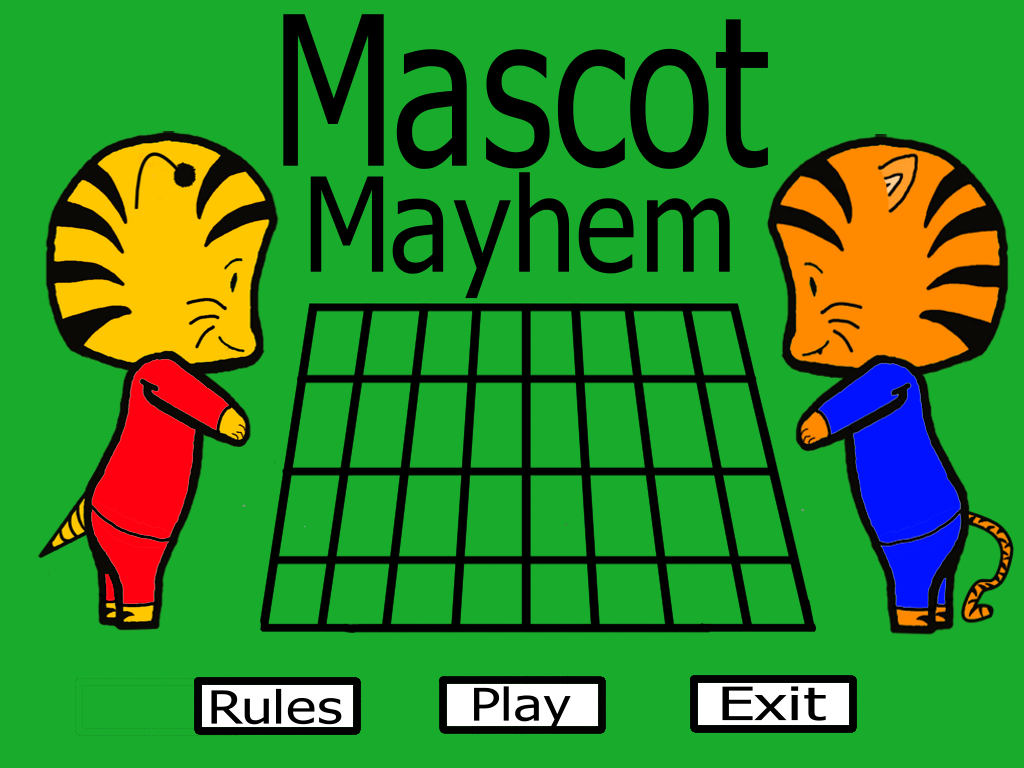
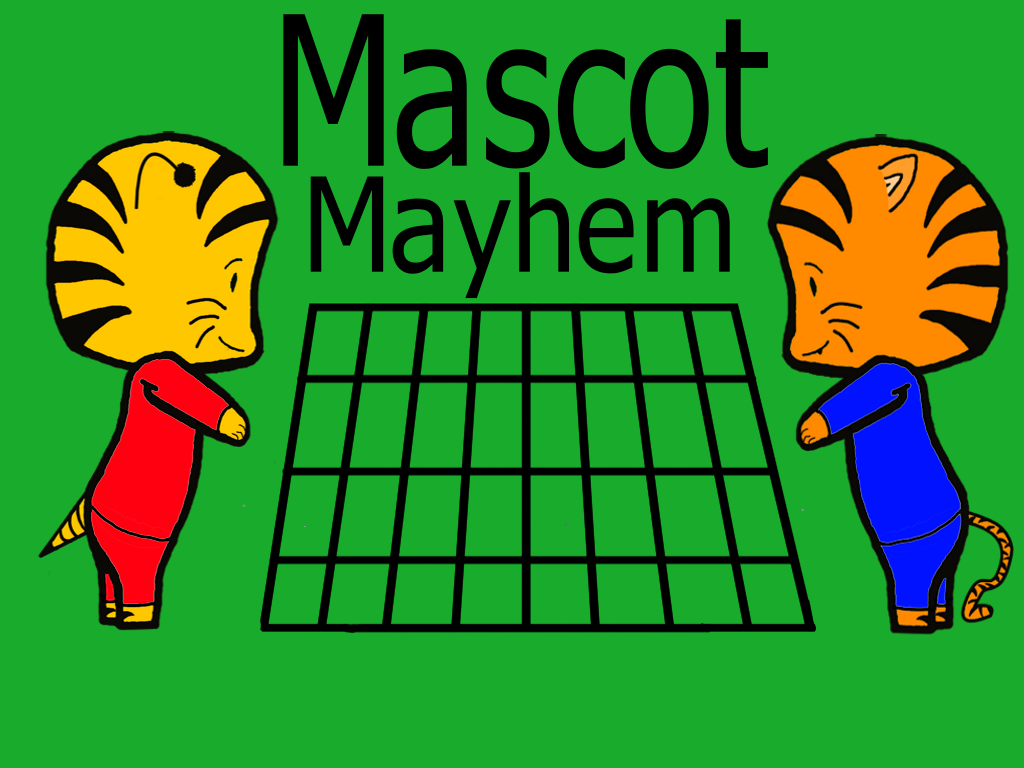
Menu Update
Added menu backgrounds and updated the main menu option locations

Changed region(s): [[0.6562, 0.875, 0.8438, 0.9688], [0.4062, 0.875, 0.5938, 0.9688], [0.1875, 0.875, 0.375, 0.9688]]

diff --git a/Game1/Game1/Game1.cs b/Game1/Game1/Game1.cs
@@ -85,6 +85,10 @@ namespace Game1
         Texture2D wf; // Wet Feet
         Texture2D xf; // X-Forest
 
+        //menus
+        Texture2D mainMenu;
+        Texture2D standardMenu;
+
         public Game1()
         {
             graphics = new GraphicsDeviceManager(this);
@@ -195,8 +199,12 @@ namespace Game1
             wf = Content.Load<Texture2D>("WetFeetPreview");
             xf = Content.Load<Texture2D>("XForestPreview");
 
-            //Update screen size to fullscreen
-            //this.graphics.IsFullScreen = true;
+            //menus
+            mainMenu = Content.Load<Texture2D>("Main menu");
+            standardMenu = Content.Load<Texture2D>("Standard Menu");
+
+            //Update screen size to fullscreen (coment out this line during testing)
+            this.graphics.IsFullScreen = true;
         }
 
         /// <summary>
@@ -227,17 +235,17 @@ namespace Game1
                 case GameState.Menu:
                     if (!displayRules)
                     {
-                        if (SingleLeftMouseLocationPress(new Rectangle(GraphicsDevice.Viewport.Width / 2 - 50, GraphicsDevice.Viewport.Height / 2 - 100, 140, 25))) //play game
+                        if (SingleLeftMouseLocationPress(new Rectangle(GraphicsDevice.Viewport.Width / 2 - 190, GraphicsDevice.Viewport.Height - 50, 140, 25))) //play game
                         {
                             //progress to team selection
                             curState = GameState.TeamSelect;
                         }
-                        else if (SingleLeftMouseLocationPress(new Rectangle(GraphicsDevice.Viewport.Width / 2 - 20, GraphicsDevice.Viewport.Height / 2 - 55, 75, 25))) //rules
+                        else if (SingleLeftMouseLocationPress(new Rectangle(GraphicsDevice.Viewport.Width / 2 - 10, GraphicsDevice.Viewport.Height - 50, 75, 25))) //rules
                         {
                             //display the rules image on the screen
                             displayRules = true;
                         }
-                        else if (SingleLeftMouseLocationPress(new Rectangle(GraphicsDevice.Viewport.Width / 2 - 50, GraphicsDevice.Viewport.Height / 2 - 10, 140, 25))) //exit game
+                        else if (SingleLeftMouseLocationPress(new Rectangle(GraphicsDevice.Viewport.Width / 2 + 110, GraphicsDevice.Viewport.Height - 50, 140, 25))) //exit game
                         {
                             //exit the game
                             this.Exit();
@@ -1037,9 +1045,10 @@ namespace Game1
             switch (curState)
             {
                 case GameState.Menu:
-                    spriteBatch.DrawString(font, "Play Game", new Vector2(GraphicsDevice.Viewport.Width / 2 - 50, GraphicsDevice.Viewport.Height / 2 - 100), ScrolledOver(new Rectangle(GraphicsDevice.Viewport.Width / 2 - 50, GraphicsDevice.Viewport.Height / 2 - 100, 140, 25)));
-                    spriteBatch.DrawString(font, "Rules", new Vector2(GraphicsDevice.Viewport.Width / 2 - 20, GraphicsDevice.Viewport.Height / 2 - 55), ScrolledOver(new Rectangle(GraphicsDevice.Viewport.Width / 2 - 20, GraphicsDevice.Viewport.Height / 2 - 55, 75, 25)));
-                    spriteBatch.DrawString(font, "Exit Game", new Vector2(GraphicsDevice.Viewport.Width / 2 - 50, GraphicsDevice.Viewport.Height / 2 - 10), ScrolledOver(new Rectangle(GraphicsDevice.Viewport.Width / 2 - 50, GraphicsDevice.Viewport.Height / 2 - 10, 140, 25)));
+                    spriteBatch.Draw(mainMenu, new Rectangle(0, 0, GraphicsDevice.Viewport.Width, GraphicsDevice.Viewport.Height), Color.White);
+                    spriteBatch.DrawString(font, "Play Game", new Vector2(GraphicsDevice.Viewport.Width / 2 - 190, GraphicsDevice.Viewport.Height - 50), ScrolledOver(new Rectangle(GraphicsDevice.Viewport.Width / 2 - 190, GraphicsDevice.Viewport.Height - 50, 140, 25)));
+                    spriteBatch.DrawString(font, "Rules", new Vector2(GraphicsDevice.Viewport.Width / 2 - 10, GraphicsDevice.Viewport.Height - 50), ScrolledOver(new Rectangle(GraphicsDevice.Viewport.Width / 2 - 10, GraphicsDevice.Viewport.Height - 50, 75, 25)));
+                    spriteBatch.DrawString(font, "Exit Game", new Vector2(GraphicsDevice.Viewport.Width / 2 + 110, GraphicsDevice.Viewport.Height - 50), ScrolledOver(new Rectangle(GraphicsDevice.Viewport.Width / 2 + 110, GraphicsDevice.Viewport.Height - 50, 140, 25)));
                     if (displayRules)
                     {
                         spriteBatch.Draw(rules, new Rectangle(10, 10, GraphicsDevice.Viewport.Width - 20, GraphicsDevice.Viewport.Height - 100), Color.White);
@@ -1048,6 +1057,7 @@ namespace Game1
                     break;
 
                 case GameState.TeamSelect:
+                    spriteBatch.Draw(standardMenu, new Rectangle(0, 0, GraphicsDevice.Viewport.Width, GraphicsDevice.Viewport.Height), Color.White);
                     spriteBatch.DrawString(font, "Team Selection", new Vector2(GraphicsDevice.Viewport.Width / 2 - 100, 100), Color.White);
                     spriteBatch.DrawString(font, "Team 1", new Vector2(395, GraphicsDevice.Viewport.Height - 200), Color.White);
                     spriteBatch.DrawString(font, "Team 2", new Vector2(GraphicsDevice.Viewport.Width - 490, GraphicsDevice.Viewport.Height - 200), Color.White);
@@ -1059,6 +1069,7 @@ namespace Game1
                     break;
 
                 case GameState.MapSelect:
+                    spriteBatch.Draw(standardMenu, new Rectangle(0, 0, GraphicsDevice.Viewport.Width, GraphicsDevice.Viewport.Height), Color.White);
                     spriteBatch.DrawString(font, "Map Selection", new Vector2(GraphicsDevice.Viewport.Width / 2 - 100, 100), Color.White);
                     spriteBatch.DrawString(font, "Select A Map By Clicking On It", new Vector2(GraphicsDevice.Viewport.Width/2 - 180, GraphicsDevice.Viewport.Height/2 - 50), Color.White);
                     
@@ -1086,12 +1097,12 @@ namespace Game1
                     break;
                     
                 case GameState.Game:
-                    DrawMap(); //add check for map tile scrolled over later with final art pieces
+                    DrawMap(); //draws the game board
                     college1.DrawCollegeUnits(spriteBatch, GraphicsDevice, turn); //draws team 1's units
                     college2.DrawCollegeUnits(spriteBatch, GraphicsDevice, turn); //draws team 2's units
 
                     //if the menu or win screen is not currently up
-                    if (selectedUnit != -2 && !(college1Win || college2Win))
+                    if (selectedUnit != -2 || !(college1Win || college2Win))
                     {
                         DrawTileInfo(); //draws individual tile info
                     }
